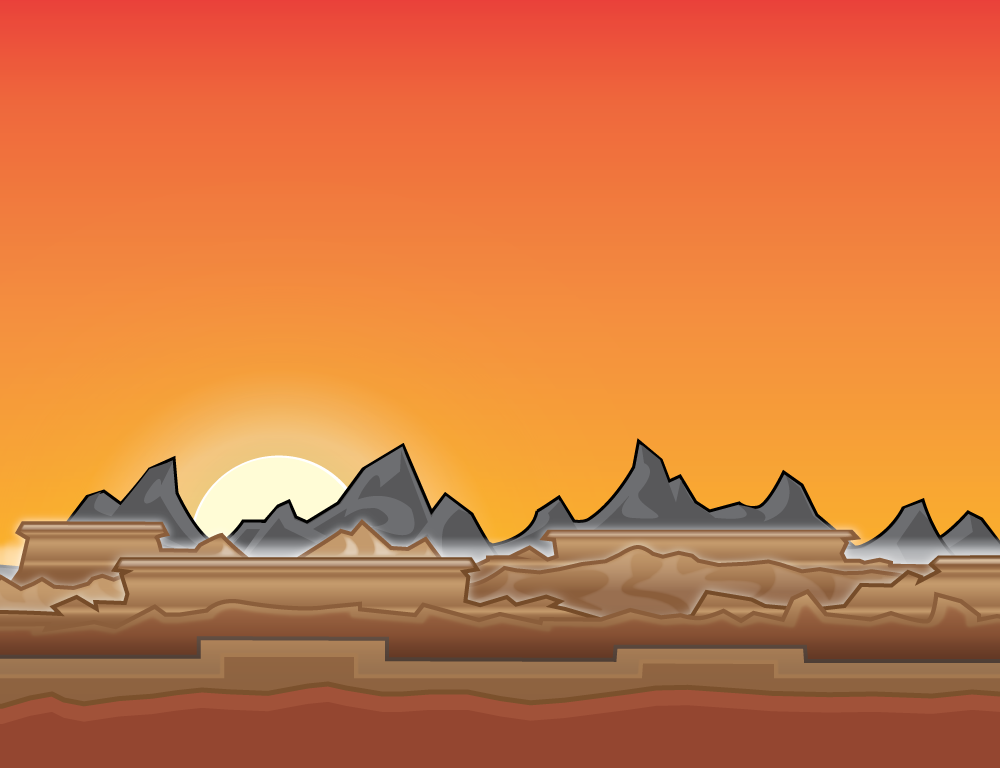
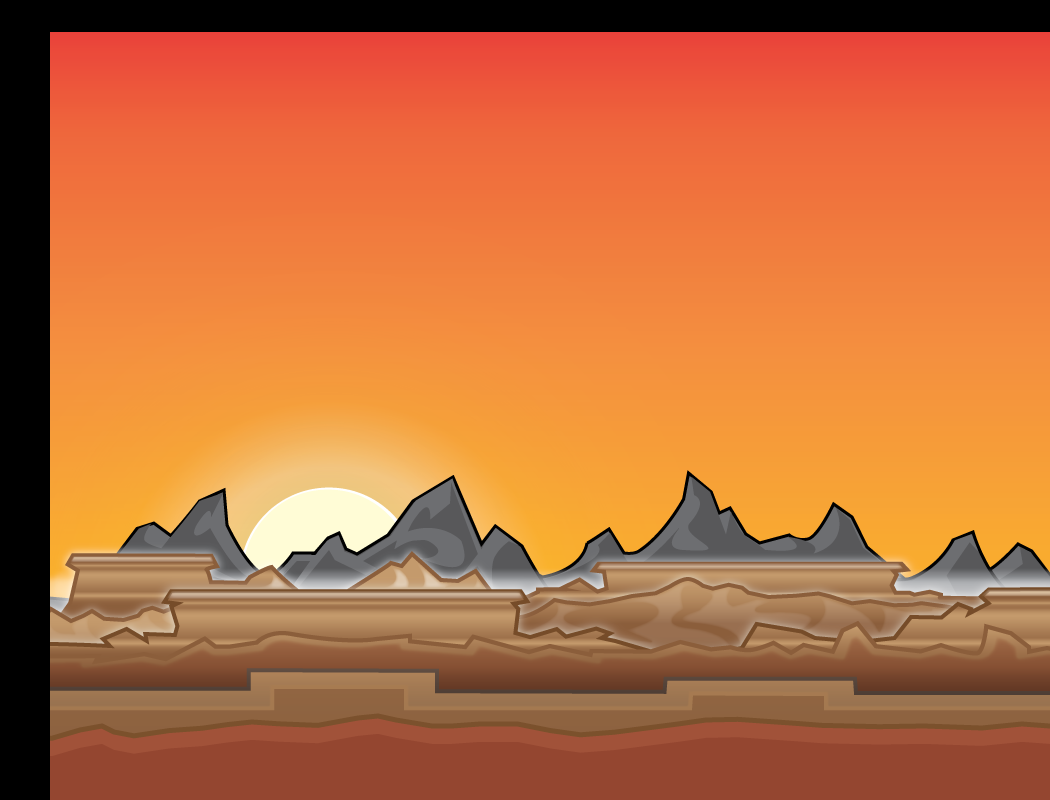
updates to canvases

diff --git a/put_border_on_canvas.m b/put_border_on_canvas.m
@@ -18,7 +18,7 @@ new_img = uint8(zeros(rows+rows_to_add, cols+cols_to_add,3));
 new_img(rows_to_add+1:end, cols_to_add+1:end, :) = img;
 
 if(rows == 768)
-    imwrite(uint8(new_img),strcat('canvas',num2str(i),'.png'),'png');
+    imwrite(uint8(new_img),strcat('/users/claire/dropbox/bandit/assets/canvases/canvas',num2str(i),'.png'),'png');
 else
     imwrite(uint8(new_img),strcat('canvas',num2str(i),'@2x.png'),'png');
 end
